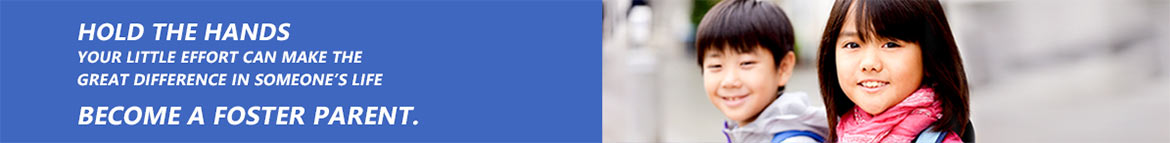
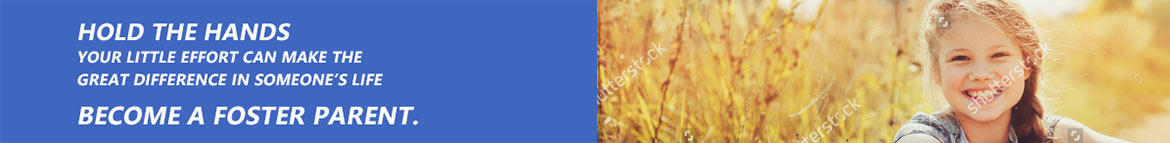
Updated HTML pages

diff --git a/html/EligibilityCriteria.html b/html/EligibilityCriteria.html
@@ -54,7 +54,7 @@
               <!-- Collect the nav links, forms, and other content for toggling -->
               <div class="collapse navbar-collapse" id="bs-navbar">
                 <ul class="nav navbar-nav">
-                  <li><a href="#">Home</a></li>
+                  <li class="active"><a href="default.html">Home</a></li>
                   <li><a href="#">About Us</a></li>
                   <li><a href="#">For Families</a></li>
                   <li><a href="#">Training</a></li>
@@ -84,32 +84,13 @@
       </div>
     </header>
     <section>
-    	<div id="myCarousel" class="carousel slide marginBottom10" data-ride="carousel">
- 
-
-  <!-- Wrapper for slides -->
-  <div class="carousel-inner" role="listbox">
-    <div class="item active">
-      <img src="images/homepagebanner.jpg" alt="Family Registration" class="fixedHeight">
-      <div class="carousel-caption">
-      <div class="carouselContentBG txtUppercase txtItalic">
-        <h2>HOLD THE HANDS</h2>
-<h4>your little effort can make the</h4>
-<h4>great difference in someone’s life</h4>
-<h2>BECOME A FOSTER PARENT.</h2></div><br/>
-      <h3><a href="#" class="carouselContentBG">Family Registration <i class="glyphicon glyphicon glyphicon-forward"></i></a></h3>
-       
+    	<div class="row">
+        <div class="col-xs-12"> <img src="images/bannerImage.jpg" class="img-responsive" alt=""/> </div>
       </div>
-    </div>
-
-  </div>
-
- 
-</div>
     
     <div class="row">
       <div class="col-md-12">
-		<h1 class="txtBlue txtNormal">Eligibility Criteria for Foster Parent</h1>
+		<h1 class="txtBlue txtNormal">Eligibility Criteria to become Foster Parent</h1>
 		</br>
 		<ul>
 			<li>You must be min. 21 years of age</li>
@@ -148,7 +129,7 @@
 		<button class="btn btn-primary" onClick="location.href='EstablishProfile-Step1.html'">Next</button>
 	  </div>
     </div><!-- /.row -->
-	<div class="row ">
+	<div class="row lightGrayBG marginTop10">
       <div class="col-md-10 col-md-offset-1">
 		 <div class="row marginTop10">
 		  <div class="col-sm-12 text-center">
@@ -191,8 +172,6 @@
 			  <li><a href="#">Twitter</a></li>
 			  <li><a href="#">Google+</a></li>
 			  <li><a href="#">LinkedIn</a></li>
-			  <li><a href="#">Behance</a></li>
-			  <li><a href="#">Dribbble</a></li>
 			  <li><a href="#">GitHub</a></li>
 <li><a href="#">Report Tech Issue</a></li>
 			</ul>

diff --git a/html/EstablishProfile-Step3.html b/html/EstablishProfile-Step3.html
@@ -53,7 +53,7 @@
               <!-- Collect the nav links, forms, and other content for toggling -->
               <div class="collapse navbar-collapse" id="bs-navbar">
                 <ul class="nav navbar-nav">
-                  <li class="active"><a href="#">Home</a></li>
+                  <li class="active"><a href="default.html">Home</a></li>
                   <li><a href="#">About Us</a></li>
                   <li><a href="#">For Families</a></li>
                   <li><a href="#">Training</a></li>
@@ -239,8 +239,6 @@
         <li><a href="#">Twitter</a></li>
         <li><a href="#">Google+</a></li>
         <li><a href="#">LinkedIn</a></li>
-        <li><a href="#">Behance</a></li>
-        <li><a href="#">Dribbble</a></li>
         <li><a href="#">GitHub</a></li>
         <li><a href="#">Report Tech Issue</a></li>
       </ul>
@@ -286,6 +284,9 @@ function moveSecondaryNav() {
 		}
 		else{
 				$("#dv_numofkids").hide();	
+				$("#dv_FirstKid").hide();	
+				$("#dv_SecondKid").hide();	
+				
 		}
 	}
 	

diff --git a/html/EstablishProfile-Step1.html b/html/EstablishProfile-Step1.html
@@ -53,7 +53,7 @@
               <!-- Collect the nav links, forms, and other content for toggling -->
               <div class="collapse navbar-collapse" id="bs-navbar">
                 <ul class="nav navbar-nav">
-                  <li class="active"><a href="#">Home</a></li>
+                  <li class="active"><a href="default.html">Home</a></li>
                   <li><a href="#">About Us</a></li>
                   <li><a href="#">For Families</a></li>
                   <li><a href="#">Training</a></li>
@@ -173,8 +173,6 @@
         <li><a href="#">Twitter</a></li>
         <li><a href="#">Google+</a></li>
         <li><a href="#">LinkedIn</a></li>
-        <li><a href="#">Behance</a></li>
-        <li><a href="#">Dribbble</a></li>
         <li><a href="#">GitHub</a></li>
         <li><a href="#">Report Tech Issue</a></li>
       </ul>

diff --git a/html/Inbox.html b/html/Inbox.html
@@ -44,7 +44,7 @@
               <!-- Collect the nav links, forms, and other content for toggling -->
               <div class="collapse navbar-collapse" id="bs-navbar">
                 <ul class="nav navbar-nav">
-                  <li class="active"><a href="#">Home</a></li>
+                  <li class="active"><a href="default.html">Home</a></li>
                   <li><a href="#">About Us</a></li>
                   <li><a href="#">For Families</a></li>
                   <li><a href="#">Training</a></li>
@@ -198,8 +198,6 @@
         <li><a href="#">Twitter</a></li>
         <li><a href="#">Google+</a></li>
         <li><a href="#">LinkedIn</a></li>
-        <li><a href="#">Behance</a></li>
-        <li><a href="#">Dribbble</a></li>
         <li><a href="#">GitHub</a></li>
         <li><a href="#">Report Tech Issue</a></li>
       </ul>

diff --git a/html/ManageProfile-Step1.html b/html/ManageProfile-Step1.html
@@ -45,7 +45,7 @@
               <!-- Collect the nav links, forms, and other content for toggling -->
               <div class="collapse navbar-collapse" id="bs-navbar">
                 <ul class="nav navbar-nav">
-                  <li class="active"><a href="#">Home</a></li>
+                  <li class="active"><a href="default.html">Home</a></li>
                   <li><a href="#">About Us</a></li>
                   <li><a href="#">For Families</a></li>
                   <li><a href="#">Training</a></li>
@@ -185,8 +185,6 @@
         <li><a href="#">Twitter</a></li>
         <li><a href="#">Google+</a></li>
         <li><a href="#">LinkedIn</a></li>
-        <li><a href="#">Behance</a></li>
-        <li><a href="#">Dribbble</a></li>
         <li><a href="#">GitHub</a></li>
         <li><a href="#">Report Tech Issue</a></li>
       </ul>

diff --git a/html/ManageProfile-Step2.html b/html/ManageProfile-Step2.html
@@ -44,7 +44,7 @@
               <!-- Collect the nav links, forms, and other content for toggling -->
               <div class="collapse navbar-collapse" id="bs-navbar">
                 <ul class="nav navbar-nav">
-                  <li class="active"><a href="#">Home</a></li>
+                  <li class="active"><a href="default.html">Home</a></li>
                   <li><a href="#">About Us</a></li>
                   <li><a href="#">For Families</a></li>
                   <li><a href="#">Training</a></li>
@@ -337,8 +337,6 @@
         <li><a href="#">Twitter</a></li>
         <li><a href="#">Google+</a></li>
         <li><a href="#">LinkedIn</a></li>
-        <li><a href="#">Behance</a></li>
-        <li><a href="#">Dribbble</a></li>
         <li><a href="#">GitHub</a></li>
         <li><a href="#">Report Tech Issue</a></li>
       </ul>

diff --git a/html/ManageProfile-Step3.html b/html/ManageProfile-Step3.html
@@ -44,7 +44,7 @@
               <!-- Collect the nav links, forms, and other content for toggling -->
               <div class="collapse navbar-collapse" id="bs-navbar">
                 <ul class="nav navbar-nav">
-                  <li class="active"><a href="#">Home</a></li>
+                  <li class="active"><a href="default.html">Home</a></li>
                   <li><a href="#">About Us</a></li>
                   <li><a href="#">For Families</a></li>
                   <li><a href="#">Training</a></li>
@@ -249,8 +249,6 @@
         <li><a href="#">Twitter</a></li>
         <li><a href="#">Google+</a></li>
         <li><a href="#">LinkedIn</a></li>
-        <li><a href="#">Behance</a></li>
-        <li><a href="#">Dribbble</a></li>
         <li><a href="#">GitHub</a></li>
         <li><a href="#">Report Tech Issue</a></li>
       </ul>

diff --git a/html/ManageProfile-Step4.html b/html/ManageProfile-Step4.html
@@ -44,7 +44,7 @@
               <!-- Collect the nav links, forms, and other content for toggling -->
               <div class="collapse navbar-collapse" id="bs-navbar">
                 <ul class="nav navbar-nav">
-                  <li class="active"><a href="#">Home</a></li>
+                  <li class="active"><a href="default.html">Home</a></li>
                   <li><a href="#">About Us</a></li>
                   <li><a href="#">For Families</a></li>
                   <li><a href="#">Training</a></li>
@@ -198,8 +198,6 @@
         <li><a href="#">Twitter</a></li>
         <li><a href="#">Google+</a></li>
         <li><a href="#">LinkedIn</a></li>
-        <li><a href="#">Behance</a></li>
-        <li><a href="#">Dribbble</a></li>
         <li><a href="#">GitHub</a></li>
         <li><a href="#">Report Tech Issue</a></li>
       </ul>

diff --git a/html/MessageDetail.html b/html/MessageDetail.html
@@ -44,7 +44,7 @@
               <!-- Collect the nav links, forms, and other content for toggling -->
               <div class="collapse navbar-collapse" id="bs-navbar">
                 <ul class="nav navbar-nav">
-                  <li class="active"><a href="#">Home</a></li>
+                  <li class="active"><a href="default.html">Home</a></li>
                   <li><a href="#">About Us</a></li>
                   <li><a href="#">For Families</a></li>
                   <li><a href="#">Training</a></li>
@@ -180,8 +180,6 @@
         <li><a href="#">Twitter</a></li>
         <li><a href="#">Google+</a></li>
         <li><a href="#">LinkedIn</a></li>
-        <li><a href="#">Behance</a></li>
-        <li><a href="#">Dribbble</a></li>
         <li><a href="#">GitHub</a></li>
         <li><a href="#">Report Tech Issue</a></li>
       </ul>

diff --git a/html/MyApplication.html b/html/MyApplication.html
@@ -44,7 +44,7 @@
               <!-- Collect the nav links, forms, and other content for toggling -->
               <div class="collapse navbar-collapse" id="bs-navbar">
                 <ul class="nav navbar-nav">
-                  <li class="active"><a href="#">Home</a></li>
+                  <li class="active"><a href="default.html">Home</a></li>
                   <li><a href="#">About Us</a></li>
                   <li><a href="#">For Families</a></li>
                   <li><a href="#">Training</a></li>
@@ -179,8 +179,6 @@
         <li><a href="#">Twitter</a></li>
         <li><a href="#">Google+</a></li>
         <li><a href="#">LinkedIn</a></li>
-        <li><a href="#">Behance</a></li>
-        <li><a href="#">Dribbble</a></li>
         <li><a href="#">GitHub</a></li>
         <li><a href="#">Report Tech Issue</a></li>
       </ul>

diff --git a/html/childResidentialFacility.html b/html/childResidentialFacility.html
@@ -44,7 +44,7 @@
               <!-- Collect the nav links, forms, and other content for toggling -->
               <div class="collapse navbar-collapse" id="bs-navbar">
                 <ul class="nav navbar-nav">
-                  <li class="active"><a href="#">Home</a></li>
+                  <li class="active"><a href="default.html">Home</a></li>
                   <li><a href="#">About Us</a></li>
                   <li><a href="#">For Families</a></li>
                   <li><a href="#">Training</a></li>
@@ -243,8 +243,6 @@
         <li><a href="#">Twitter</a></li>
         <li><a href="#">Google+</a></li>
         <li><a href="#">LinkedIn</a></li>
-        <li><a href="#">Behance</a></li>
-        <li><a href="#">Dribbble</a></li>
         <li><a href="#">GitHub</a></li>
         <li><a href="#">Report Tech Issue</a></li>
       </ul>

diff --git a/html/fosterCareAgency.html b/html/fosterCareAgency.html
@@ -44,7 +44,7 @@
               <!-- Collect the nav links, forms, and other content for toggling -->
               <div class="collapse navbar-collapse" id="bs-navbar">
                 <ul class="nav navbar-nav">
-                  <li class="active"><a href="#">Home</a></li>
+                  <li class="active"><a href="default.html">Home</a></li>
                   <li><a href="#">About Us</a></li>
                   <li><a href="#">For Families</a></li>
                   <li><a href="#">Training</a></li>
@@ -195,8 +195,6 @@
         <li><a href="#">Twitter</a></li>
         <li><a href="#">Google+</a></li>
         <li><a href="#">LinkedIn</a></li>
-        <li><a href="#">Behance</a></li>
-        <li><a href="#">Dribbble</a></li>
         <li><a href="#">GitHub</a></li>
         <li><a href="#">Report Tech Issue</a></li>
       </ul>
